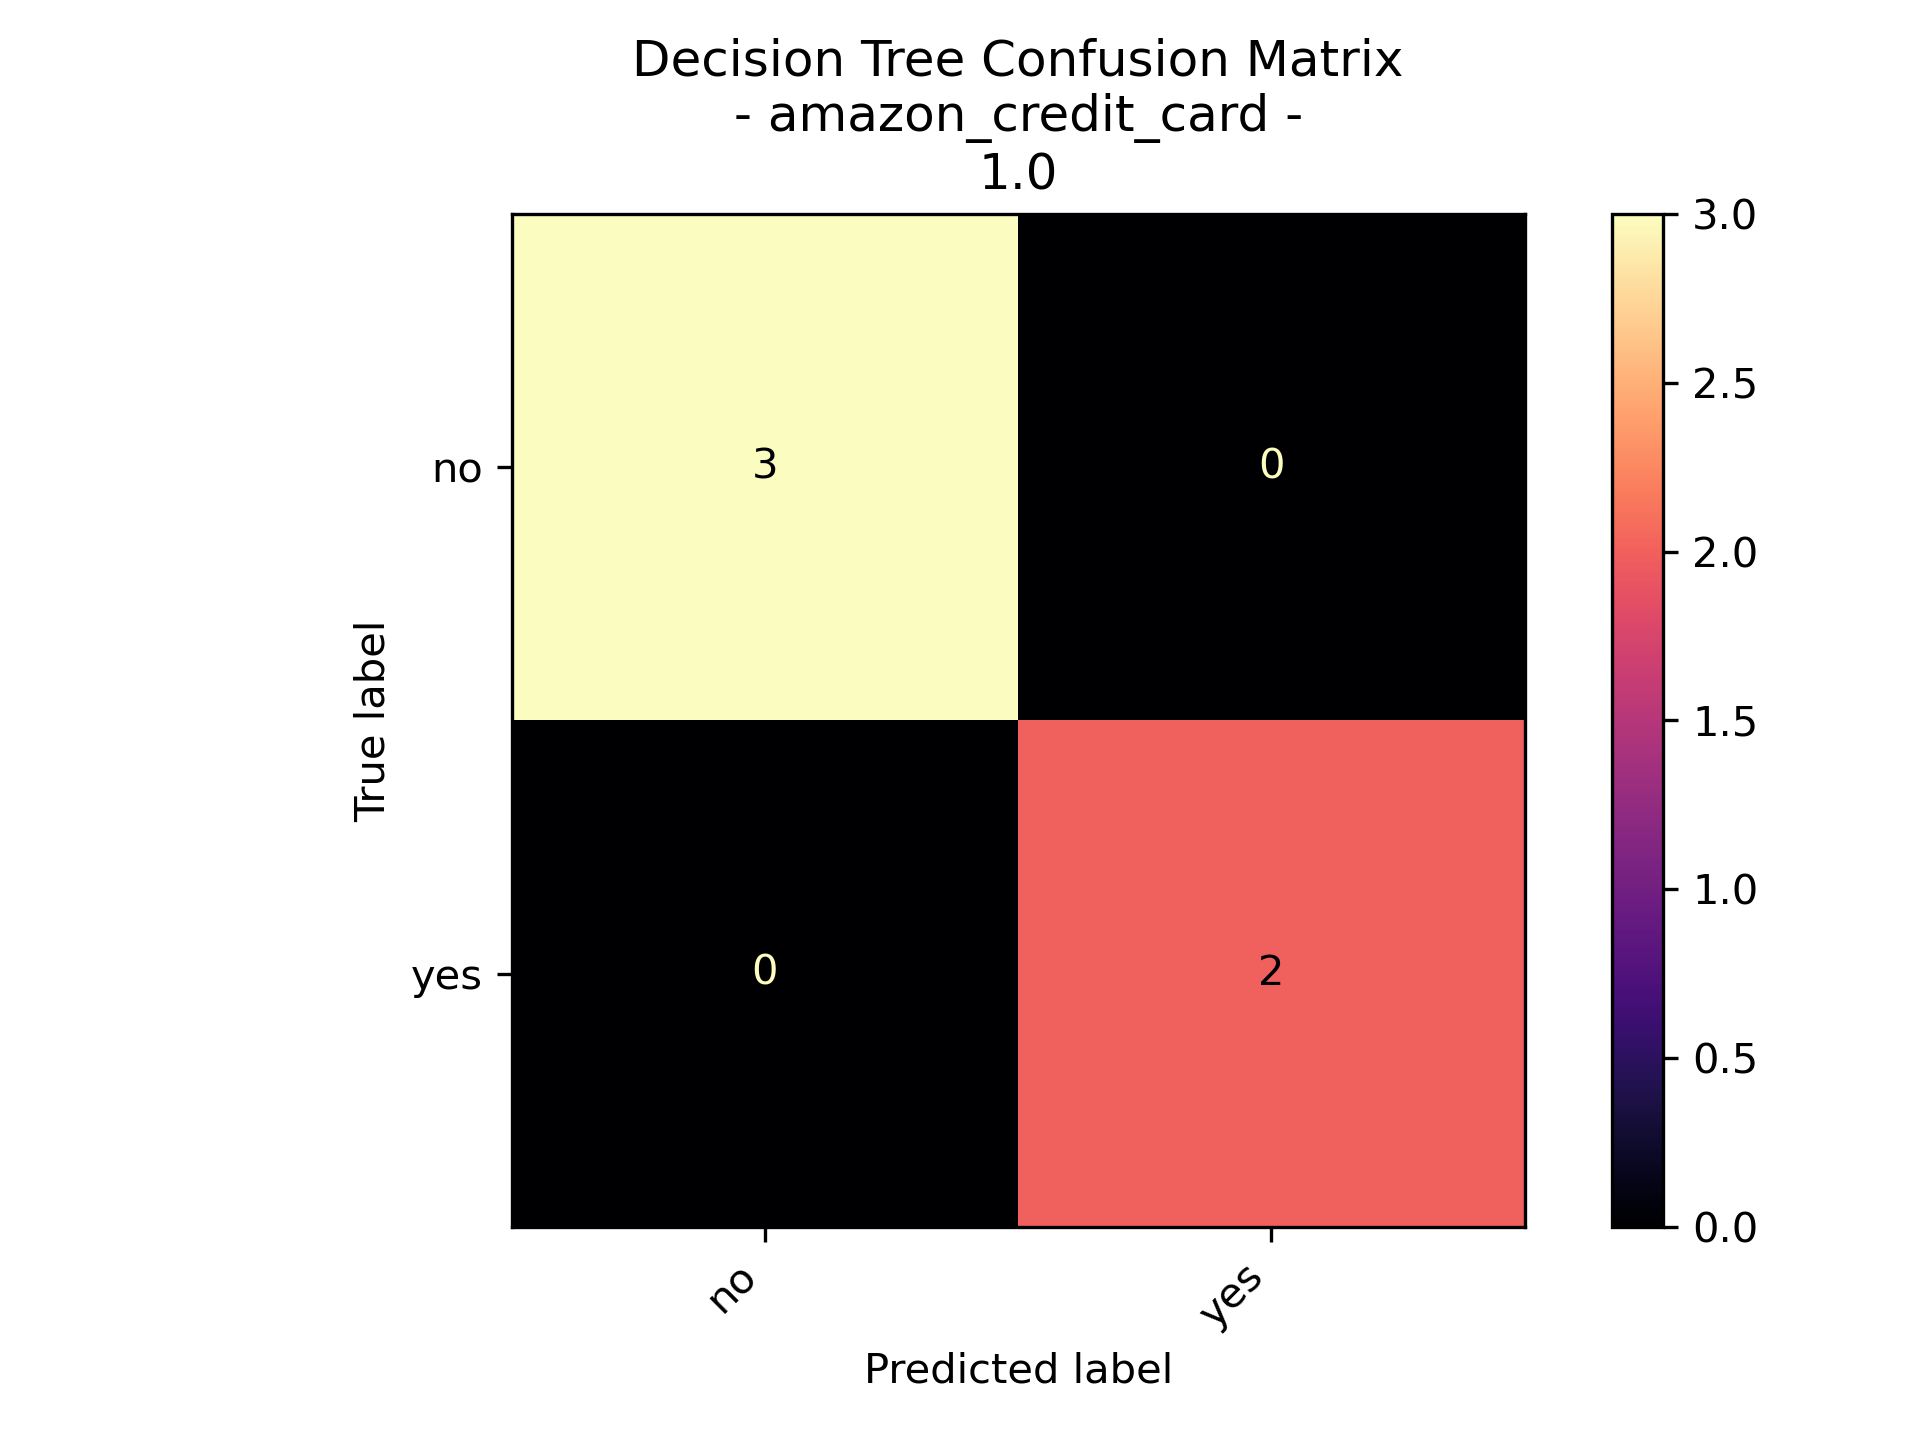
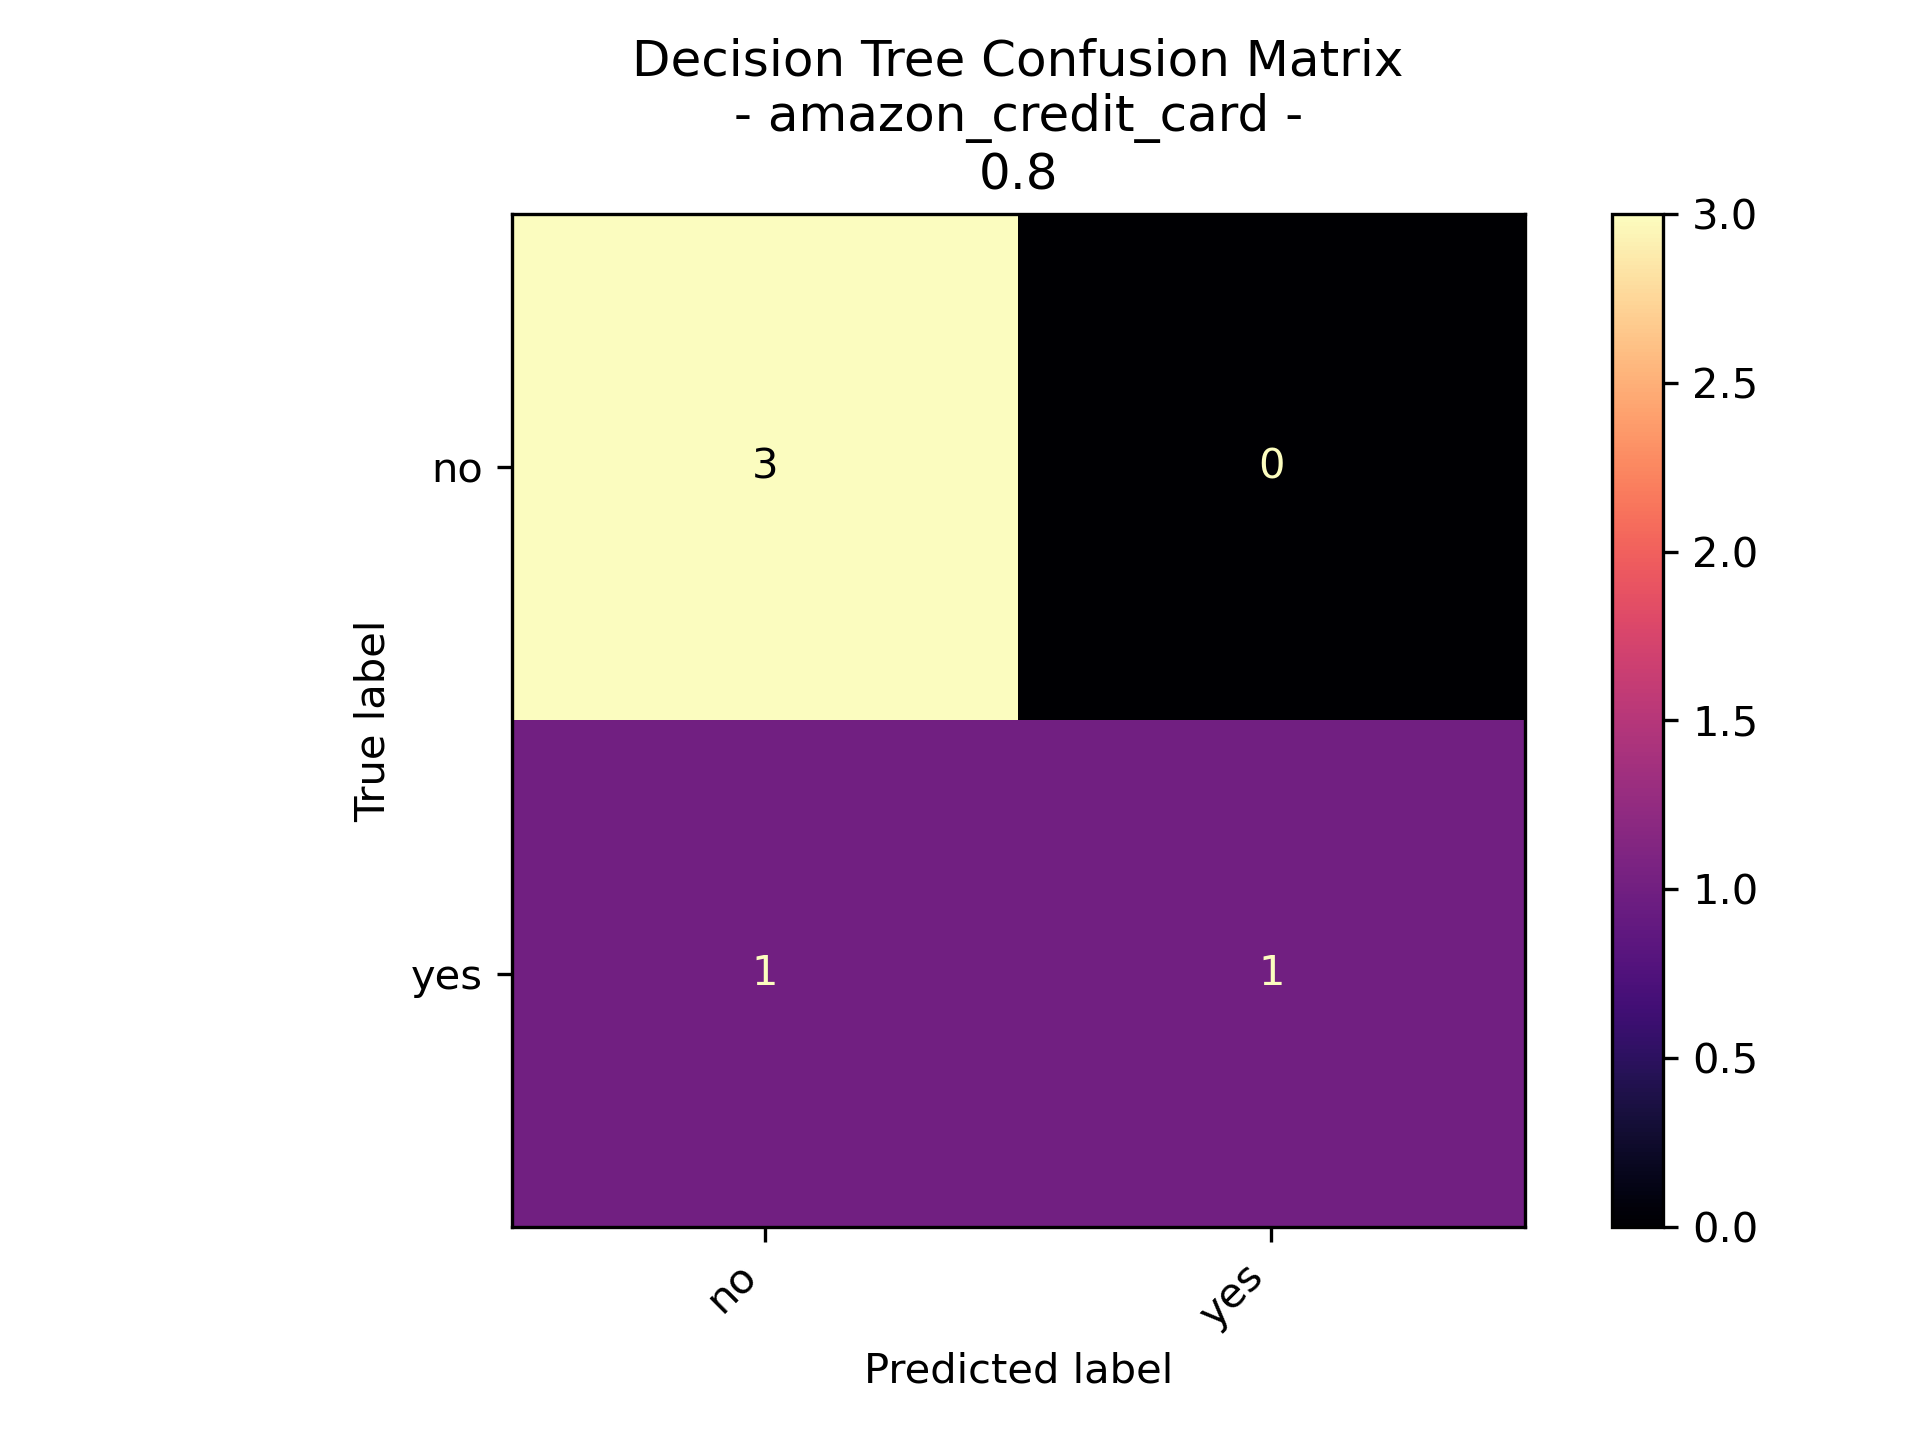
Added ARM R markdown, also added a markdown to write out the latex instead of typing in word, also added basket data to the amazon data

Changed region(s): [[0.25, 0.5, 0.8125, 0.875], [0.5, 0.0938, 0.5312, 0.125]]

diff --git a/Final_Exam/KatrinaArbogast_Question3_Part1.py b/Final_Exam/KatrinaArbogast_Question3_Part1.py
@@ -31,10 +31,53 @@ from sklearn.svm import LinearSVC
 from sklearn.naive_bayes import MultinomialNB
 
 
+products = [
+    "Laptop", "Coffee Maker", "Running Shoes", "Wireless Earbuds", "Smartwatch",
+    "Blender", "Portable Speaker", "Backpack", "Fitness Tracker", "Instant Pot",
+    "Kindle eReader", "Gaming Mouse", "Yoga Mat", "Drone", "Digital Camera",
+    "Air Fryer", "Noise-Canceling Headphones", "Smart Thermostat", "External Hard Drive",
+    "Robot Vacuum", "Wireless Router", "Electric Toothbrush", "Fitness Resistance Bands",
+    "Home Security Camera", "Outdoor Grill", "Espresso Machine", "Bluetooth Keyboard",
+    "Streaming Device (e.g., Roku)", "Wireless Charging Pad", "Indoor Plants", "Cast Iron Skillet",
+    "Travel Luggage", "Desktop Monitor", "Electric Scooter", "Projector",
+    "Water Bottle with Infuser", "Smart Light Bulbs", "Weighted Blanket",
+    "White Noise Machine", "Power Bank", "Hiking Boots", "Digital Drawing Tablet",
+    "Electric Shaver", "Portable Monitor", "Electric Kettle", "LED Desk Lamp",
+    "Car Phone Mount", "Instant Camera", "Air Purifier", "Virtual Reality Headset"
+]
+
+
 amazon_user_df = pd.DataFrame({
     "Credit_Score": [600, 810, 820, 830, 840, 850, 610, 805, 815, 825, 835, 700, 600, 610, 620, 630, 640, 650, 610, 605, 615, 625, 635, 645, 655],
     "Income_Level": [90000, 95000, 100000, 15000, 110000, 115000, 95000, 92000, 98000, 102000, 108000, 91000, 30000, 35000, 40000, 45000, 59000, 55000, 35000, 80000, 38000, 42000, 48000, 90000, 56000],
     "Length_of_Credit_History": [8, 9, 10, 1, 12, 13, 9, 8, 10, 11, 2, 13, 2, 3, 4, 5, 6, 7, 3, 2, 14, 5, 6, 17, 8],
+    'Products': [
+        ['Laptop', 'Smartwatch', 'Backpack'],
+        ['Coffee Maker', 'Wireless Earbuds', 'Fitness Tracker', 'Tea', 'Coffee'],
+        ['Running Shoes', 'Yoga Mat', 'Fitness Resistance Bands', 'Water Bottle'],
+        ['Drone', 'Digital Camera', 'Air Fryer', 'Coffee'],
+        ['Noise-Canceling Headphones', 'Smart Thermostat', 'External Hard Drive'],
+        ['Robot Vacuum', 'Wireless Router', 'Smartwatch'],
+        ['Electric Toothbrush', 'Fitness Tracker', 'Home Security Camera'],
+        ['Outdoor Grill', 'Espresso Machine', 'Bluetooth Keyboard'],
+        ['Indoor Plants', 'Cast Iron Skillet', 'Travel Luggage', 'Wallet'],
+        ['Desktop Monitor', 'Electric Scooter', 'Projector'],
+        ['Water Bottle with Infuser', 'Smart Light Bulbs', 'Weighted Blanket'],
+        ['White Noise Machine', 'Power Bank', 'Hiking Boots'],
+        ['Digital Drawing Tablet', 'Electric Shaver', 'Portable Monitor'],
+        ['Electric Kettle', 'LED Desk Lamp', 'Car Phone Mount'],
+        ['Instant Camera', 'Air Purifier', 'Virtual Reality Headset'],
+        ['Laptop', 'Coffee Maker', 'Running Shoes', 'Wireless Earbuds', 'Smartwatch', 'Wallet'],
+        ['Blender', 'Portable Speaker', 'Backpack', 'Fitness Tracker', 'Instant Pot'],
+        ['Kindle eReader', 'Gaming Mouse', 'Yoga Mat', 'Drone', 'Digital Camera', 'Water Bottle'],
+        ['Air Fryer', 'Noise-Canceling Headphones', 'Smart Thermostat', 'External Hard Drive'],
+        ['Robot Vacuum', 'Wireless Router', 'Electric Toothbrush', 'Fitness Resistance Bands', 'Home Security Camera'],
+        ['Outdoor Grill', 'Espresso Machine', 'Bluetooth Keyboard', 'Television', 'Wireless Charging Pad'],
+        ['Indoor Plants', 'Cast Iron Skillet', 'Travel Luggage', 'Desktop Monitor', 'Electric Scooter'],
+        ['Projector', 'Water Bottle with Infuser', 'Smart Light Bulbs', 'Weighted Blanket', 'White Noise Machine'],
+        ['Power Bank', 'Hiking Boots', 'Digital Drawing Tablet', 'Electric Shaver', 'Portable Monitor', 'Water Bottle'],
+        ['Electric Kettle', 'LED Desk Lamp', 'Car Phone Mount', 'Instant Camera', 'Air Purifier', 'Tea']
+    ],
     "give_card": ["yes"] * 12 + ["no"] * 13
 })
 
@@ -42,9 +85,11 @@ filename = "amazon_credit_card"
 
 
 def main():
+    
+    print(f"\n --- Amazon User Data --- \n{amazon_user_df}")
 
     print("\n\n ---------- Selecting Train and Test Data ---------- \n")
-    amazon_user_dict = setup_train_test_data(amazon_user_df, label_col="give_card")
+    amazon_user_dict = setup_train_test_data(amazon_user_df[["Credit_Score", "Income_Level", "Length_of_Credit_History", "give_card"]], label_col="give_card")
     
     print("\n\n ---------- Decision Tree ---------- \n")
     decision_tree_analysis(amazon_user_dict, filename) #, max_depth=20)
@@ -270,9 +315,6 @@ def run_svm(sample_dict, filename, visual_folder="./Final_Exam/Part3_Visuals"):
         plt.tight_layout()
         plt.savefig(f"{visual_folder}/{filename}_poly_svm_cm_{d}.png", dpi=300)
         plt.close()
-        
-        
-# hello
 
 
 # DO NOT REMOVE!!!
